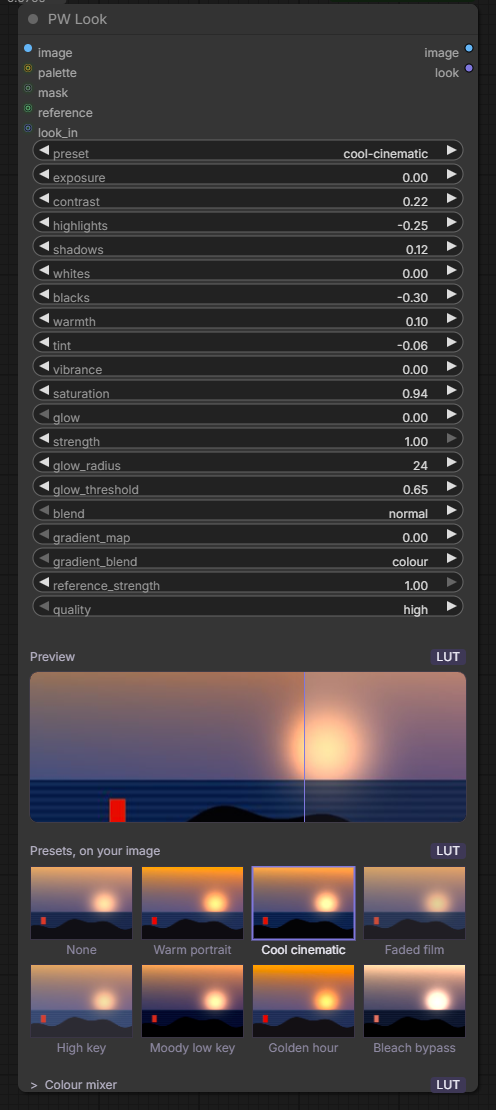
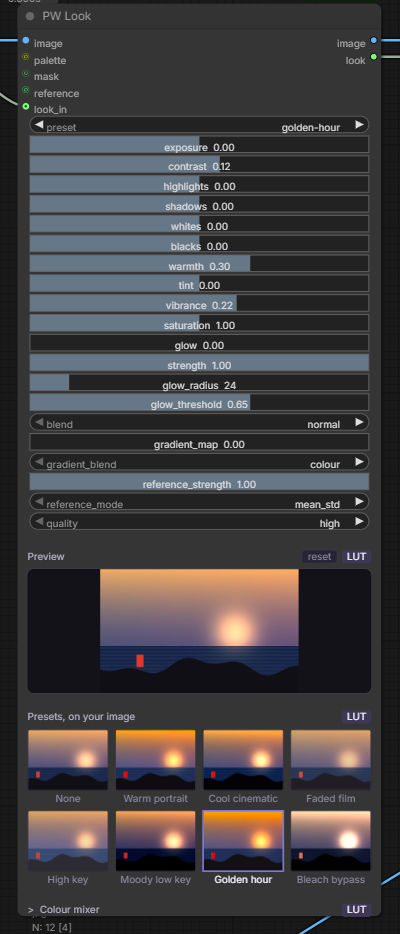
Refresh the README screenshots for the slider styling
Every node recaptured with the native sliders, the reset chip and the live
previews populated. Documents the slider treatment and the reset affordance,
and drops a stale line describing the bespoke strength slider that no longer
exists.

diff --git a/README.md b/README.md
@@ -28,6 +28,18 @@ and torch, the CPU samplers agree **exactly at 8-bit**, and the shipped shader
 lands **within one code value at 8-bit** (mean 0.03 over 12k pixels) against
 the reference. `.cube` export falls out of the same lattice for free.
 
+**Every control is a slider.** Anything with a range is a native ComfyUI
+slider rather than an arrow-stepper, so a value's position is readable at a
+glance and the nodes match the rest of the app. Seeds and output dimensions
+stay as typed fields, because those are values you enter rather than drag
+toward.
+
+**Every node resets.** A `reset` chip in the panel header, and a
+`Reset to defaults` entry in the right-click menu, put a node back to its
+defaults — including the parts the widgets do not hold, like the curve itself
+and the colour mixer. Seeds are left alone, since resetting one would change
+your grain rather than neutralise a control.
+
 **Preview controls**, on any node that has one:
 
 | | |
@@ -104,16 +116,15 @@ longer `.cube`-exportable. That is stated rather than hidden.
 
 ### PW Curves
 
-<img src="docs/images/pw_curves.png" alt="PW Curves" width="420">
+<img src="docs/images/pw_curves.png" alt="PW Curves" width="400">
 
 Multi-channel curve editor. Luma, R, G and B tabs; the input histogram rendered
 behind the grid; a dashed identity diagonal; a ghost of the pre-edit curve while
 you drag.
 
 Click to add a point, shift-click to remove one, shift-drag for fine adjustment,
-double-click the canvas to reset the channel. The strength slider blends toward
-the identity curve, and its fill runs from the **neutral point** rather than from
-zero, so "unchanged" reads at a glance.
+double-click the canvas to reset the channel. The `strength` slider blends the
+whole curve toward identity.
 
 The `LUT` badge means this section bakes into a lattice and exports to `.cube`.
 Sections that cannot are badged `render only` — we surface the split rather than
@@ -124,7 +135,7 @@ tested monotone and non-null.
 
 ### PW Grain
 
-<img src="docs/images/pw_grain.png" alt="PW Grain" width="340">
+<img src="docs/images/pw_grain.png" alt="PW Grain" width="420">
 
 Film grain with a **tonal response** — strongest in the midtones, weak in the
 shadows, absent in pure black and pure white. Uniform noise across the frame is
@@ -174,7 +185,7 @@ whole frame.
 
 ### PW Match Source
 
-<img src="docs/images/pw_matchsource.png" alt="PW Match source" width="320">
+<img src="docs/images/pw_matchsource.png" alt="PW Match source" width="340">
 
 Fixes the colour drift a VAE encode/decode introduces. On a full-frame img2img
 nobody notices, because the whole frame shifts together. On an inpaint you
@@ -191,7 +202,7 @@ proportionally instead of falling off a cliff at 0.5.
 
 ### PW Optics
 
-<img src="docs/images/pw_optics.png" alt="PW Optics" width="320">
+<img src="docs/images/pw_optics.png" alt="PW Optics" width="400">
 
 Halation, vignette and chromatic aberration. Render-only, all of it — these read
 pixel neighbourhoods, so none of it can be baked into a LUT, and the node says
@@ -220,7 +231,7 @@ through the halation pass.
 
 ### PW Scopes
 
-<img src="docs/images/pw_scopes.png" alt="PW Scopes" width="300">
+<img src="docs/images/pw_scopes.png" alt="PW Scopes" width="340">
 
 Histogram, waveform and RGB parade, rendered from the **full-resolution** image
 and passed through untouched, so the node can sit anywhere in a chain.
@@ -239,7 +250,7 @@ IMAGE you can wire into a Save Image node and keep next to the frame it measured
 
 ### PW Look I/O
 
-<img src="docs/images/pw_lookio.png" alt="PW Look I/O" width="300">
+<img src="docs/images/pw_lookio.png" alt="PW Look I/O" width="340">
 
 Saves a LOOK to `output/looks` as a `.look`, loads one back, and bakes it to an
 Adobe `.cube`.
